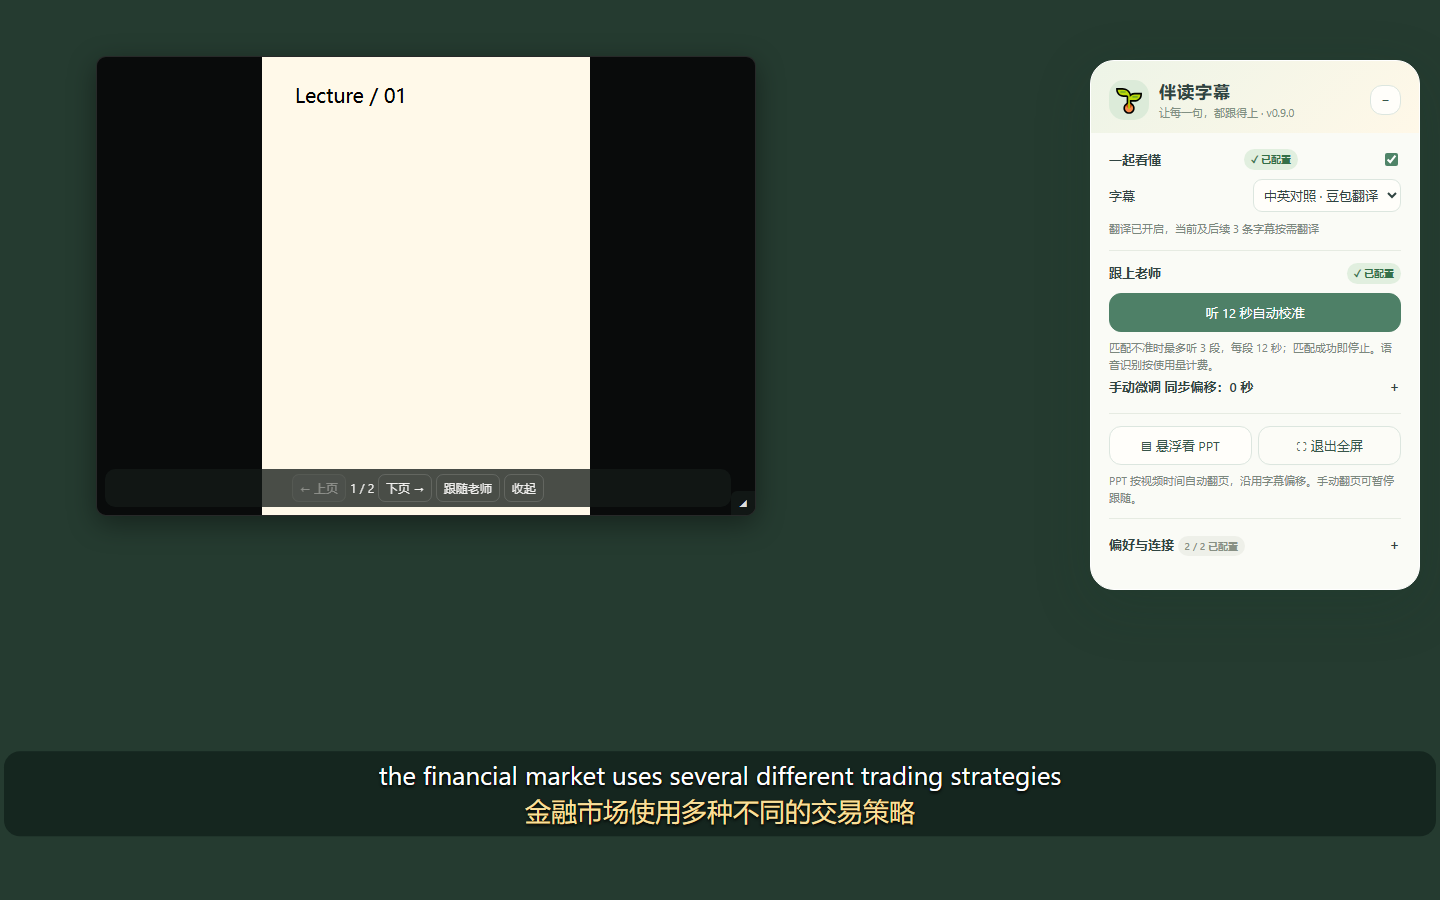
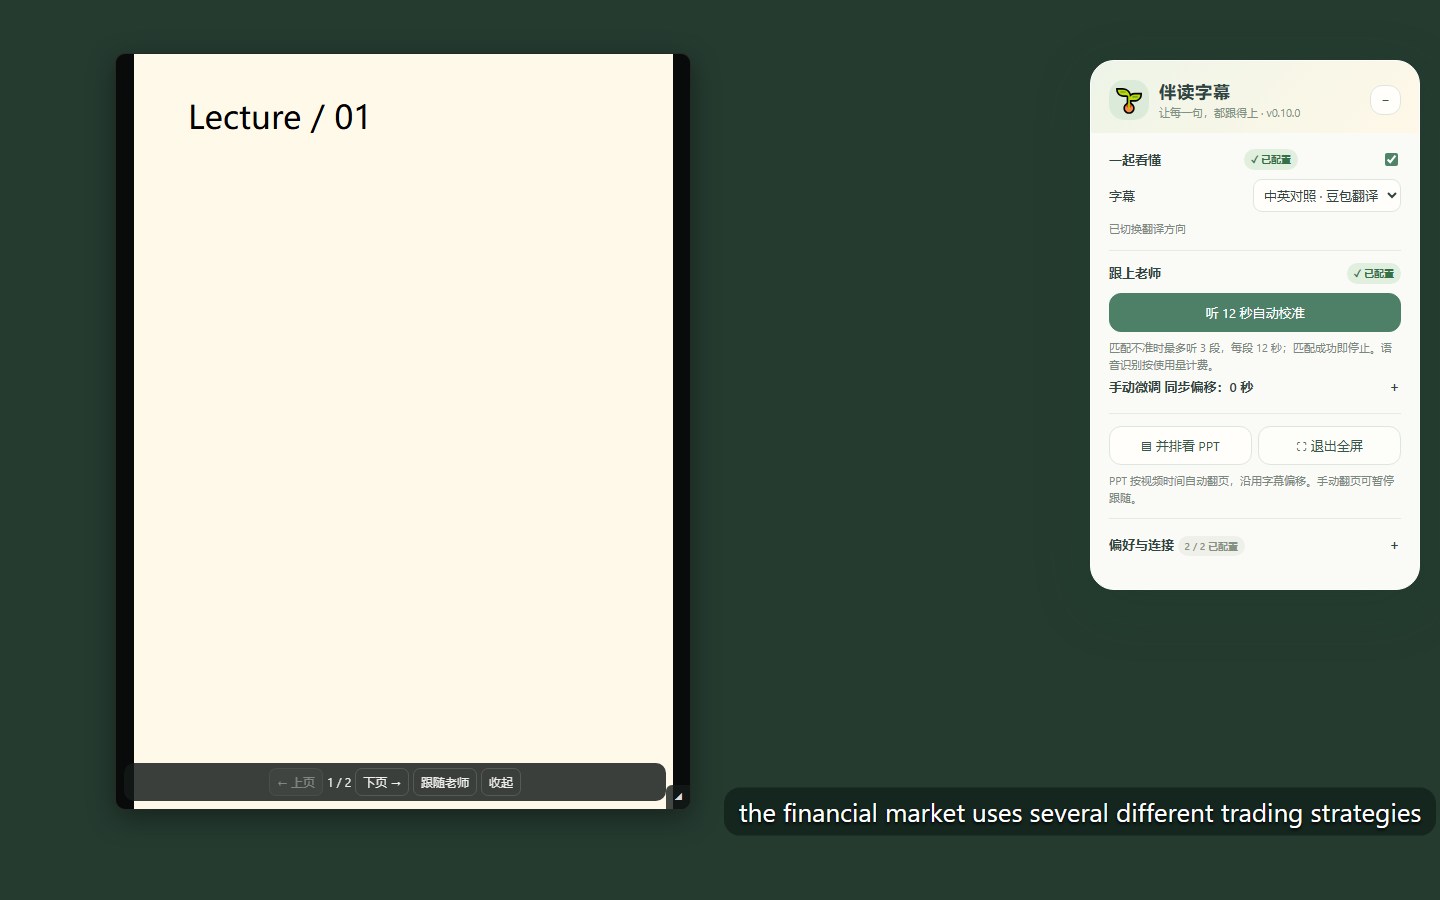
Fix equal PPT split and skip target-language translation

Changed region(s): [[0.0625, 0.0622, 1.0, 0.9333], [0.7812, 0.2489, 0.9062, 0.28]]

diff --git a/zhiyun-subtitles.user.js b/zhiyun-subtitles.user.js
@@ -1,7 +1,7 @@
 // ==UserScript==
 // @name         智云课堂同步字幕
 // @namespace    zhiyunzimu.local
-// @version      0.9.0
+// @version      0.10.0
 // @description  将右侧语音识别及平台译文同步显示在视频底部，支持字幕导出。
 // @match        https://interactivemeta.cmc.zju.edu.cn/*
 // @grant        GM_xmlhttpRequest
@@ -96,6 +96,17 @@
     return text;
   }
   // One request at a time. An epoch prevents stopped/old-course results from leaking into new work.
+  function isTargetLanguage(text, target) {
+    const letters=String(text).match(/\p{L}/gu) || [];
+    if(!letters.length) return true;
+    const han=letters.filter(c=>/\p{Script=Han}/u.test(c)).length;
+    const latin=String(text).match(/[A-Za-z]+(?:['’-][A-Za-z]+)*/g) || [];
+    const latinChars=latin.join('').replace(/[^A-Za-z]/g,'').length;
+    if(letters.length-han-latinChars>0) return false;
+    if(target==='zh') return han>0 && (latin.length===0 || (han>=4 && latin.length<=2 && han>=latinChars));
+    if(target==='en') return han===0 && (latin.length>=2 || latinChars>=3);
+    return false;
+  }
   function createTranslator(request, notify = () => {}) {
     const cache = new Map();
     let enabled = false, epoch = 0, pending = null, queue = [], source = 'en', target = 'zh';
@@ -135,7 +146,7 @@
       start(from, to) { stop(); source = from; target = to; enabled = true; },
       stop,
       reset() { stop(); cache.clear(); },
-      schedule(texts) { if (!enabled) return; queue = [...new Set(texts)].filter(text => text && !get(text)); pump(); }
+      schedule(texts) { if (!enabled) return; queue = [...new Set(texts)].filter(text => text && !isTargetLanguage(text,target) && !get(text)); pump(); }
     };
   }
   function parseTime(text) {
@@ -197,7 +208,7 @@
       maxHeight: below ? Math.max(24, band - 48) : rect.height * 0.55 };
   }
   if (typeof module !== 'undefined' && module.exports) {
-    module.exports = { parseTime, timeline, activeCue, stamp, srt, translationBody, translationResult, createTranslator, subtitleTime, captionLayout, wavBytes, matchSpeech, speechResult, recognizeStandard, courseIdentity, slideTime, slideAt };
+    module.exports = { parseTime, timeline, activeCue, stamp, srt, translationBody, translationResult, createTranslator, subtitleTime, captionLayout, wavBytes, matchSpeech, speechResult, recognizeStandard, courseIdentity, slideTime, slideAt, isTargetLanguage };
     return;
   }
   if (document.getElementById('zy-subtitle-host')) return;
@@ -245,7 +256,7 @@
     <nav id="slide-toolbar" aria-label="PPT 翻页"><button id="slide-prev">← 上页</button><span id="slide-page"></span><button id="slide-next">下页 →</button><button id="slide-follow" aria-pressed="true">✓ 跟随老师</button><button id="slide-close">收起</button></nav><button id="slide-resize" aria-label="调整 PPT 窗口大小" title="拖拽缩放；方向键微调">◢</button>
   </section>
   <section id="panel" aria-label="智云字幕设置">
-    <header id="panel-head"><span class="mascot">🌱</span><div><h3>伴读字幕</h3><span class="subtitle">让每一句，都跟得上 · v0.9.0</span></div><button id="collapse" aria-label="收起字幕设置">−</button></header>
+    <header id="panel-head"><span class="mascot">🌱</span><div><h3>伴读字幕</h3><span class="subtitle">让每一句，都跟得上 · v0.10.0</span></div><button id="collapse" aria-label="收起字幕设置">−</button></header>
     <div id="panel-body">
     <div class="section"><div class="section-title">一起看懂 <span id="translation-ready" class="badge"></span><input id="enabled" aria-label="显示字幕" type="checkbox" checked></div>
     <label>字幕<select id="mode"><option value="original">仅原文</option><option value="both">中英对照 · 豆包翻译</option></select></label>
@@ -257,7 +268,7 @@
     <details><summary>手动微调 <span id="offset-hint">同步偏移：0 秒</span></summary>
     <label>偏移 / 秒<input id="offset" type="number" min="-3600" max="3600" step="0.5" value="0"></label>
     <div class="actions"><button id="earlier">提前 0.5 秒</button><button id="later">延后 0.5 秒</button><button id="reset-offset">归零</button></div></details></div>
-    <div class="section"><div class="actions"><button id="show-slides">▤ 悬浮看 PPT</button><button id="focus-fullscreen">⛶ 专注全屏</button></div><p id="slides-status">翻页不会打断视频。拖动 PPT 移动窗口，拖右下角缩放。悬停显示翻页与跟随控制。</p></div>
+    <div class="section"><div class="actions"><button id="show-slides">▤ 并排看 PPT</button><button id="focus-fullscreen">⛶ 专注全屏</button></div><p id="slides-status">翻页不会打断视频。PPT 与视频各占一半；左侧可拖动、缩放，不遮挡老师。</p></div>
     <details class="section"><summary>偏好与连接 <span id="key-summary" class="badge"></span></summary>
     <label>翻译连接 <span id="translation-badge" class="badge"></span></label><button id="configure-key">设置翻译 Key</button>
     <label>语音连接 <span id="speech-key-badge" class="badge"></span></label><button id="speech-key">设置语音识别凭证</button><p>绿色勾表示已保存凭证，不代表接口权限已验证。</p>
@@ -303,6 +314,7 @@
     handle.addEventListener('pointermove',e=>{
       if(!drag) return;
       if(pan) { element.scrollLeft=drag.left+drag.x-e.clientX; element.scrollTop=drag.top+drag.y-e.clientY; }
+      else if(element===$('slides')) {applySlideGeometry({left:drag.left+e.clientX-drag.x,top:drag.top+e.clientY-drag.y,width:element.offsetWidth,height:element.offsetHeight});}
       else { element.style.right='auto'; element.style.left=Math.max(8,Math.min(innerWidth-element.offsetWidth-8,drag.left+e.clientX-drag.x))+'px'; element.style.top=Math.max(8,Math.min(innerHeight-element.offsetHeight-8,drag.top+e.clientY-drag.y))+'px'; }
     });
     for(const event of ['pointerup','pointercancel','lostpointercapture']) handle.addEventListener(event,()=>{if(drag) onEnd();drag=null;});
@@ -426,7 +438,7 @@
       cancelAlignment=null; $('auto-align').textContent='听 12 秒自动校准';
     }
   };
-  let slideUrls=[], slideEntries=[], slideIndex=0, splitVideo=null, slideFollowing=true, slideCourse=null;
+  let slideUrls=[], slideEntries=[], slideIndex=0, splitVideo=null, splitStyles=null, slideDragging=false, slideFollowing=true, slideCourse=null;
   function saveSlideState() {
     GM_setValue('ppt-state:'+slideCourse,{index:slideIndex,url:slideEntries[slideIndex]?.url,time:slideEntries[slideIndex]?.time,follow:slideFollowing});
   }
@@ -441,7 +453,10 @@
   }
   function closeSlides() {
     $('slides').hidden=true;
-    splitVideo=null;
+    if(splitVideo && splitStyles) for(const [key,saved] of Object.entries(splitStyles)) {
+      if(saved.value) splitVideo.style.setProperty(key,saved.value,saved.priority); else splitVideo.style.removeProperty(key);
+    }
+    splitStyles=null; splitVideo=null;
   }
   function renderSlide() {
     $('slide-image').src=slideUrls[slideIndex]; $('slide-page').textContent=`${slideIndex+1} / ${slideUrls.length}`;
@@ -463,9 +478,10 @@
     if(!mainVideo) { $('slides-status').textContent='请先打开老师视频，再查看 PPT。'; return false; }
     if(!splitVideo) {
       splitVideo=mainVideo;
-      const rect=splitVideo.getBoundingClientRect();
-      const saved=GM_getValue('ppt-window',null);
-      applySlideGeometry(saved || {left:Math.max(8,rect.left+16),top:Math.max(8,rect.top+16),width:Math.min(560,innerWidth*.48),height:Math.min(400,innerHeight*.6)});
+      splitStyles=Object.fromEntries(['width','margin-left'].map(key=>[key,{value:splitVideo.style.getPropertyValue(key),priority:splitVideo.style.getPropertyPriority(key)}]));
+      splitVideo.style.setProperty('width','50%','important');
+      splitVideo.style.setProperty('margin-left','50%','important');
+      restoreSlideGeometry();
     }
     slideIndex=Math.min(slideIndex,slideUrls.length-1); renderSlide(); $('slides').hidden=false; syncSlide();
     $('slides-status').textContent=slideEntries.some(s=>Number.isFinite(s.time))?'PPT 按视频时间自动翻页，沿用字幕偏移。手动翻页可暂停跟随。':'本页未读取到 PPT 时间，保留手动翻页和页码记忆。'; return true;
@@ -489,18 +505,30 @@
   function layoutSlides() {
     if(!splitVideo || $('slides').hidden) return;
     if(!splitVideo.isConnected) { closeSlides(); return; }
-    const r=$('slides').getBoundingClientRect();
-    if(r.right>innerWidth || r.bottom>innerHeight || r.left<0 || r.top<0) applySlideGeometry(r);
+    if(!slideDragging && !resizing) restoreSlideGeometry();
+  }
+  function slideBounds() {
+    const r=splitVideo.getBoundingClientRect();
+    const left=Math.max(0,r.left-r.width),top=Math.max(0,r.top);
+    return {left,top,width:Math.max(0,Math.min(innerWidth,r.left)-left),height:Math.max(0,Math.min(innerHeight,r.bottom)-top-64)};
+  }
+  function restoreSlideGeometry() {
+    const b=slideBounds(),saved=GM_getValue('ppt-split-window',null);
+    applySlideGeometry(saved ? {left:b.left+saved.x*b.width,top:b.top+saved.y*b.height,width:saved.w*b.width,height:saved.h*b.height} : b);
   }
   function applySlideGeometry(rect) {
-    const width=Math.min(innerWidth-16,Math.max(280,rect.width));
-    const height=Math.min(innerHeight-16,Math.max(180,rect.height));
-    Object.assign($('slides').style,{left:Math.max(8,Math.min(innerWidth-width-8,rect.left))+'px',top:Math.max(8,Math.min(innerHeight-height-8,rect.top))+'px',width:width+'px',height:height+'px'});
+    const b=slideBounds();
+    const width=Math.min(b.width,Math.max(280,rect.width)),height=Math.min(b.height,Math.max(180,rect.height));
+    Object.assign($('slides').style,{left:Math.max(b.left,Math.min(b.left+b.width-width,rect.left))+'px',top:Math.max(b.top,Math.min(b.top+b.height-height,rect.top))+'px',width:width+'px',height:height+'px'});
   }
   function saveSlideGeometry() {
-    const {left,top,width,height}=$('slides').getBoundingClientRect();
-    GM_setValue('ppt-window',{left,top,width,height});
+    if(!splitVideo) return;
+    applySlideGeometry($('slides').getBoundingClientRect());
+    const {left,top,width,height}=$('slides').getBoundingClientRect(),b=slideBounds();
+    if(b.width && b.height) GM_setValue('ppt-split-window',{x:(left-b.left)/b.width,y:(top-b.top)/b.height,w:width/b.width,h:height/b.height});
   }
+  $('slide-viewport').addEventListener('pointerdown',()=>{slideDragging=true;});
+  for(const event of ['pointerup','pointercancel','lostpointercapture']) $('slide-viewport').addEventListener(event,()=>{slideDragging=false;});
   let resizing=null;
   $('slide-resize').addEventListener('pointerdown',e=>{
     if(e.button!==0) return;
@@ -596,6 +624,7 @@
     else stopTranslation('翻译方向已更改');
   });
   function translatedCue(cue) {
+    if(isTargetLanguage(cue.original,$('direction').value.split('-')[1])) return {...cue,translation:''};
     return { ...cue, translation: translator.get(cue.original) || cue.translation || '' };
   }
   let cues = [], route = courseIdentity(location.hash), pane = null, dirty = true, lastRead = 0;
